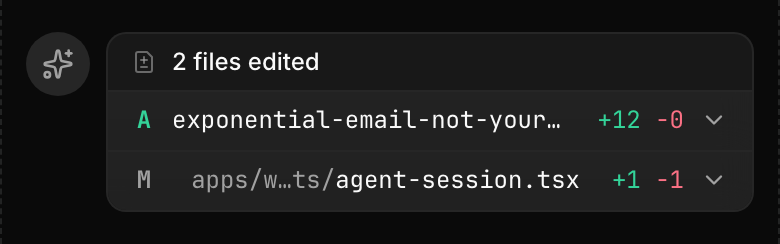
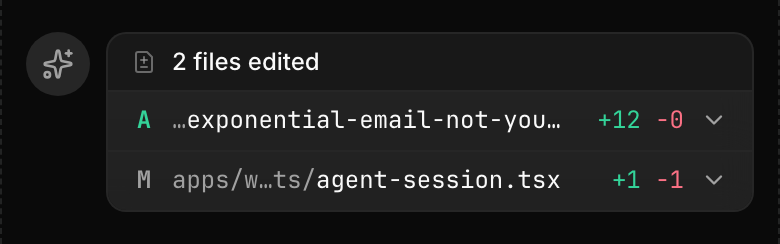
#EXP-1789: web — the cut directory hugs the name, keeps its … on a phone

Changed region(s): [[0.2154, 0.4303, 0.7077, 0.5451], [0.2154, 0.6885, 0.7385, 0.8033]]

diff --git a/packages/ui/src/diff-counts.tsx b/packages/ui/src/diff-counts.tsx
@@ -91,10 +91,14 @@ export function DiffStatusLetter({
 // so both ends of it stay readable) — and the filename is never cut unless it
 // alone outgrows the row. The full path is the hover title.
 //
-// The directory's box is sized by an invisible copy of the whole directory
-// (`::before`, so it never reaches `textContent`), shrinks as a flex item when
-// the row runs out of room, and the line shown over it is re-cut whenever that
-// box resizes.
+// Two layers, so the shown line never feeds back into the room it gets: an
+// INVISIBLE sizer row claims the room — the whole directory and the whole
+// name as `::before` copies (never in `textContent`), the directory shrinking
+// first (down to its `…`), the name only after it — and `watchMiddleTruncate`
+// cuts the directory to its sizer's width. The VISIBLE row lies over it from
+// the left edge: the cut directory hugs the name, any slack the cut leaves
+// falls after the name, and the name end-cuts only once the directory is down
+// to its `…`.
 
 /** `apps/web/src/` dimmed, `file.tsx` at full weight — one mono run. */
 export function DiffPath({
@@ -116,22 +120,32 @@ export function DiffPath({
   }, [dir])
   return (
     <span
-      className={cn(`flex min-w-0 overflow-hidden font-mono`, className)}
+      className={cn(`relative flex min-w-0 overflow-hidden font-mono`, className)}
       title={path}
       data-slot="diff-path"
     >
       {dir ? (
         <span
           ref={dirRef}
+          aria-hidden
           data-full={dir}
-          className="relative min-w-0 overflow-hidden whitespace-pre before:invisible before:content-[attr(data-full)]"
-        >
-          <span className="absolute inset-0 text-right text-muted-foreground">
+          data-slot="diff-path-dir-sizer"
+          className="invisible min-w-[2ch] shrink-[1000] overflow-hidden whitespace-pre before:content-[attr(data-full)]"
+        />
+      ) : null}
+      <span
+        aria-hidden
+        data-full={base}
+        className="invisible min-w-0 overflow-hidden whitespace-pre before:content-[attr(data-full)]"
+      />
+      <span className="absolute inset-0 flex min-w-0">
+        {dir ? (
+          <span className="shrink-0 whitespace-pre text-muted-foreground">
             {shown ?? dir}
           </span>
-        </span>
-      ) : null}
-      <span className="max-w-full shrink-0 truncate">{base}</span>
+        ) : null}
+        <span className="min-w-0 truncate">{base}</span>
+      </span>
     </span>
   )
 }

diff --git a/packages/ui/src/diff-counts.test.tsx b/packages/ui/src/diff-counts.test.tsx
@@ -59,13 +59,19 @@ describe(`DiffPath`, () => {
     expect(screen.getByText(`example.ts`)).toBeTruthy()
   })
 
-  it(`titles the full path and never cuts the filename (#EXP-1789)`, () => {
+  it(`titles the full path; the directory gives way before the name (#EXP-1789)`, () => {
     const path = `apps/web/src/components/deeply/nested/example.ts`
     const { container } = render(<DiffPath path={path} />)
     const root = container.querySelector(`[data-slot="diff-path"]`)
     expect(root?.getAttribute(`title`)).toBe(path)
     expect(container.textContent).toBe(path)
-    expect(screen.getByText(`example.ts`).className).toContain(`shrink-0`)
+    // The sizer row: the directory shrinks first and keeps room for its `…`.
+    const sizer = container.querySelector(`[data-slot="diff-path-dir-sizer"]`)
+    expect(sizer?.getAttribute(`data-full`)).toBe(`apps/web/src/components/deeply/nested/`)
+    expect(sizer?.className).toContain(`shrink-[1000]`)
+    expect(sizer?.className).toContain(`min-w-[2ch]`)
+    // The visible name end-cuts only once the directory is down to its `…`.
+    expect(screen.getByText(`example.ts`).className).toContain(`truncate`)
   })
 
   it(`a bare filename has no dimmed run at all`, () => {
